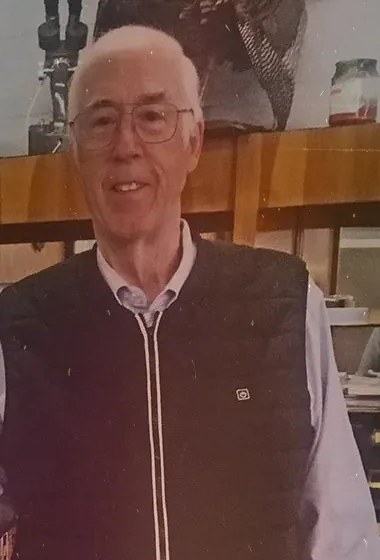
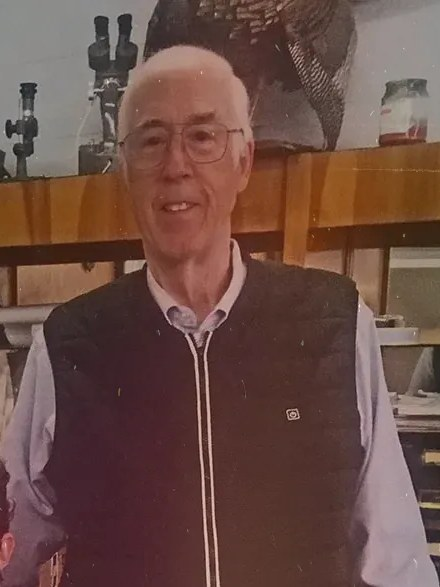
Match the team fan to the print stack.
The cards sit on a light field, tilted the way the sample prints are, with the name and the small counter inside a dashed frame.

diff --git a/styles.css b/styles.css
@@ -154,9 +154,11 @@
   .brands{margin-top:36px;text-align:center;color:var(--ink-soft);font-size:.9rem}
 
   /* archive */
-  .archive{background:var(--dark);color:#d5e2f2}
-  .archive h2{color:#fff}
-  .archive .intro{color:#a9bdd6;max-width:600px;margin:20px auto 0}
+  .archive{background:#eceae6;color:var(--ink);overflow-x:clip}
+  .archive h2{color:var(--ink)}
+  .archive .intro{color:var(--ink-soft);max-width:600px;margin:20px auto 0}
+  .archive .gallery-note{color:var(--ink-soft)}
+  .archive .gallery-note a{color:var(--accent-deep)}
   .gallery{display:grid;grid-template-columns:1fr 1fr;gap:28px;margin-top:64px;min-width:0}
   .gallery .photo{min-width:0;max-width:100%;cursor:zoom-in}
   .gallery .photo .img{width:100%}
@@ -174,28 +176,27 @@
   .gallery.photos .photo,.gallery.photos .photo:nth-child(1){grid-column:auto;grid-row:auto;display:block}
   .gallery.photos .photo .img,.gallery.photos .photo:nth-child(1) .img{aspect-ratio:4/3;min-height:0;height:auto;flex:none}
   .gallery.photos .photo.portrait .img img{object-position:center top}
-  .archive{overflow-x:clip}
   .arc{position:relative;left:50%;width:100vw;margin:8px 0 0 -50vw;outline:none}
-  .arc:focus-visible{outline:3px solid #9ec0ef;outline-offset:-6px}
-  .arc-stage{position:relative;height:680px}
-  .arc-card{position:absolute;left:50%;top:50%;width:min(420px,38vw);aspect-ratio:3/4;margin:0;border-radius:2px;overflow:hidden;background:#10233f;box-shadow:0 34px 60px -28px rgba(0,0,0,.72);cursor:pointer;transition:transform .6s cubic-bezier(.22,.7,.3,1)}
+  .arc:focus-visible{outline:3px solid var(--accent);outline-offset:-6px}
+  .arc-stage{position:relative;height:820px;overflow:hidden}
+  .arc-card{position:absolute;left:50%;top:48%;width:min(560px,42vw);aspect-ratio:3/4;margin:0;border-radius:2px;overflow:hidden;background:#ddd8d0;box-shadow:0 28px 50px -24px rgba(40,32,24,.45);cursor:pointer;transition:transform .65s cubic-bezier(.22,.7,.3,1),opacity .45s}
   .arc-card img{width:100%;height:100%;object-fit:cover;object-position:center 22%;display:block}
-  .arc-card.portrait img{object-position:center 16%}
-  .arc-veil,.arc-frame,.arc-copy{position:absolute;pointer-events:none}
-  .arc-veil{inset:0;background:linear-gradient(to top, rgba(8,16,32,.55), rgba(8,16,32,0) 46%);opacity:0;transition:opacity .35s}
-  .arc-frame{inset:20px;border:1.5px dashed rgba(255,255,255,.9);border-radius:26px;opacity:0}
-  .arc-copy{left:42px;right:36px;bottom:40px;color:#fff;text-align:left;opacity:0;transition:opacity .35s}
-  .arc-card.is-active .arc-veil,.arc-card.is-active .arc-frame,.arc-card.is-active .arc-copy{opacity:1}
-  .arc-title{display:block;font-family:var(--display);font-weight:400;font-size:clamp(2.2rem,4vw,3.4rem);line-height:.95;text-shadow:0 2px 16px rgba(0,0,0,.45)}
-  .arc-count{display:block;margin-top:12px;font-family:var(--sans);font-size:.78rem;font-weight:600;letter-spacing:.18em;text-transform:uppercase}
-  .arc-card.no-photo{background:linear-gradient(165deg,#245a9c 0%,#062047 72%)}
-  .arc-mark{position:absolute;inset:0;display:grid;place-items:center;padding-top:12%;font-family:var(--display);font-size:clamp(3.4rem,6vw,5.2rem);color:rgba(255,255,255,.9);letter-spacing:.04em}
-  .arc-card.is-active .arc-mark{opacity:.28}
-  .arc-nav{position:absolute;top:50%;z-index:30;width:46px;height:46px;margin-top:-23px;border-radius:50%;border:1px solid rgba(255,255,255,.55);background:transparent;color:#fff;display:grid;place-items:center;cursor:pointer}
-  .arc-nav.prev{left:28px}
-  .arc-nav.next{right:28px}
-  .arc-nav:hover{background:rgba(255,255,255,.12)}
-  .arc-nav:focus-visible{outline:2px solid #fff;outline-offset:3px}
+  .arc-frame,.arc-copy{position:absolute;pointer-events:none}
+  .arc-frame{inset:7% 8%;border:1.5px dashed rgba(255,255,255,.92);border-radius:34px;opacity:0}
+  .arc-copy{left:12%;top:9%;right:16%;color:#fff;text-align:left;opacity:0;transition:opacity .35s}
+  .arc-card.is-active .arc-frame,.arc-card.is-active .arc-copy{opacity:1}
+  .arc-title{display:block;font-family:var(--display);font-weight:400;font-size:clamp(2.6rem,4.6vw,4.2rem);line-height:.95;text-shadow:0 1px 2px rgba(0,0,0,.55),0 10px 24px rgba(0,0,0,.35)}
+  .arc-count{display:inline-block;margin-top:14px;padding:3px 9px 4px;border:1px solid rgba(255,255,255,.9);border-radius:8px;font-family:var(--sans);font-size:.78rem;font-weight:500;letter-spacing:.04em;text-shadow:none}
+  .arc-card.no-photo{background:#e4ddd2}
+  .arc-card.no-photo .arc-frame{border-color:rgba(16,35,63,.45)}
+  .arc-card.no-photo .arc-title{color:var(--ink);text-shadow:none}
+  .arc-card.no-photo .arc-count{color:var(--ink);border-color:rgba(16,35,63,.4)}
+  .arc-mark{position:absolute;inset:0;display:grid;place-items:center;font-family:var(--display);font-size:clamp(3.2rem,6vw,5rem);color:rgba(16,35,63,.28);letter-spacing:.04em}
+  .arc-card.is-active .arc-mark{opacity:.2}
+  .arc-controls{display:flex;justify-content:center;gap:12px;margin-top:4px}
+  .arc-nav{position:static;width:44px;height:44px;border-radius:50%;border:1px solid rgba(16,35,63,.35);background:transparent;color:var(--ink);display:grid;place-items:center;cursor:pointer}
+  .arc-nav:hover{background:#fff}
+  .arc-nav:focus-visible{outline:2px solid var(--accent);outline-offset:3px}
   .lightbox{position:fixed;inset:0;z-index:80;background:#03101f;display:grid;place-items:center;padding:48px 24px}
   .lightbox[hidden]{display:none}
   .lightbox figure{margin:0;max-width:min(1080px,94vw)}
@@ -375,13 +376,10 @@
     .brand .logo{height:32px}
     header .est-mark{display:none}
     .gallery .photo:nth-child(1){grid-row:auto}
-    .arc-card{width:min(280px,72vw)}
-    .arc-copy{left:28px;right:24px;bottom:28px}
-    .arc-frame{inset:14px;border-radius:18px}
-    .arc-stage{height:560px}
-    .arc-nav{top:auto;bottom:0;width:36px;height:36px;margin-top:0}
-    .arc-nav.prev{left:18px}
-    .arc-nav.next{right:18px}
+    .arc-stage{height:520px}
+    .arc-card{width:min(280px,74vw);top:46%}
+    .arc-title{font-size:2.3rem}
+    .arc-nav{width:36px;height:36px}
   }
   @media (prefers-reduced-motion: reduce){
     .tl-slide,.arc-card,.arc-veil,.arc-copy{transition:none}

diff --git a/index.html b/index.html
@@ -839,7 +839,7 @@ if(photoArchive && archivePhotos.length){
     title.textContent = item.name || '';
     const count = document.createElement('span');
     count.className = 'arc-count';
-    count.textContent = item.role || '';
+    count.textContent = String(i + 1).padStart(2, '0') + ' – ' + String(archivePhotos.length).padStart(2, '0');
     copy.append(title, count);
     const cap = document.createElement('figcaption');
     cap.hidden = true;
@@ -864,13 +864,18 @@ if(photoArchive && archivePhotos.length){
     return btn;
   };
   cards.forEach(card => stage.appendChild(card));
-  stage.append(arrow(-1), arrow(1));
-  photoArchive.append(stage, status);
+  const controls = document.createElement('div');
+  controls.className = 'arc-controls';
+  controls.append(arrow(-1), arrow(1));
+  photoArchive.append(stage, controls, status);
   function showArc(next){
     arcIndex = (next % archivePhotos.length + archivePhotos.length) % archivePhotos.length;
     const wide = window.matchMedia('(min-width:700px)').matches;
-    const spread = wide ? 40 : 30;
-    const tilt = wide ? 13 : 10;
+    const place = {
+      '0': wide ? [0, 4, -8, 1] : [0, 2, -6, 1],
+      '-1': wide ? [-62, -5, -18, 1] : [-48, -2, -14, 0.98],
+      '1': wide ? [66, 7, 14, 1] : [50, 4, 12, 0.98]
+    };
     cards.forEach((card, i) => {
       let offset = i - arcIndex;
       const n = cards.length;
@@ -878,9 +883,18 @@ if(photoArchive && archivePhotos.length){
       if(offset < -n / 2) offset += n;
       const active = offset === 0;
       card.classList.toggle('is-active', active);
-      card.style.zIndex = String(12 - Math.abs(offset));
-      const rot = active ? -3 : offset * -tilt;
-      card.style.transform = 'translate(-50%, -52%) translateX(' + (offset * spread) + '%) rotate(' + rot + 'deg) scale(' + (active ? 1 : 0.84) + ')';
+      const key = String(Math.max(-1, Math.min(1, offset)));
+      const spot = place[String(offset)] || place[key];
+      const far = Math.abs(offset) > 1;
+      card.style.zIndex = String(active ? 6 : 4 - Math.abs(offset));
+      card.style.opacity = far ? '0' : '1';
+      card.style.pointerEvents = far ? 'none' : 'auto';
+      const dir = offset < 0 ? -1 : 1;
+      const x = far ? dir * (wide ? 72 : 58) : spot[0];
+      const y = far ? 12 : spot[1];
+      const rot = far ? dir * 22 : spot[2];
+      const scale = far ? 0.9 : spot[3];
+      card.style.transform = 'translate(-50%, -50%) translate(' + x + '%, ' + y + '%) rotate(' + rot + 'deg) scale(' + scale + ')';
       const person = archivePhotos[i];
       card.setAttribute('aria-label', (active && person.image ? 'Open photo of ' : 'Show ') + (person.name || 'person'));
     });
